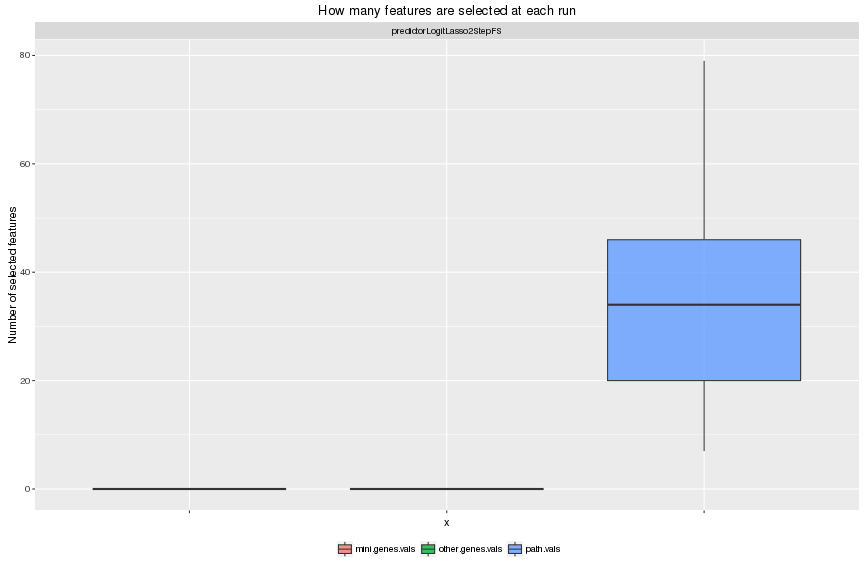
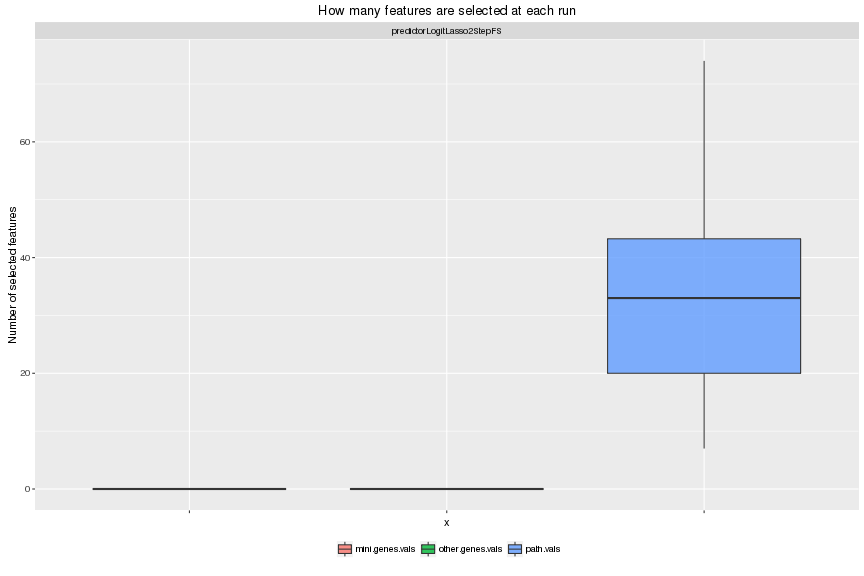
[results] fsResults +

Changed region(s): [[0.6875, 0.625, 0.9375, 0.6875], [0.6875, 0.5, 0.9375, 0.5312], [0.7188, 0.4062, 0.9375, 0.4375]]

diff --git a/results/160310/7_fsResults.md b/results/160310/7_fsResults.md
@@ -209,7 +209,7 @@ head(scores)
 ## 3 0.6000000   tpr rep1
 ## 4 1.0000000   ppv rep1
 ## 5 0.7500000  fval rep1
-## 6 0.9411392 auroc rep1
+## 6 0.9417722 auroc rep1
 ```
 
 
@@ -237,7 +237,7 @@ for (yname in ylist) {
 ![plot of chunk perfLogitLasso](7_fsResults_figure/perfLogitLasso-1.png)
 
 ```
-## Warning: Removed 1033 rows containing non-finite values (stat_boxplot).
+## Warning: Removed 1037 rows containing non-finite values (stat_boxplot).
 ```
 
 ![plot of chunk perfLogitLasso](7_fsResults_figure/perfLogitLasso-2.png)
@@ -364,7 +364,7 @@ for (yname in ylist) {
 ## (NOTE THAT GENES PROVIDE ORTHOGONAL INFO TO PATHWAYS)
 ## 
 ## predictorLogitLasso2StepFS 
-##                       33.7 
+##                       33.3 
 ## 
 ## Total number of features within each type
 ## (NOTE THAT GENES PROVIDE ORTHOGONAL INFO TO PATHWAYS)
@@ -390,13 +390,13 @@ for (yname in ylist) {
 ## 
 ## $predictorLogitLasso2StepFS$path.vals
 ## 
-##     X_hsa04520__22___4    X_hsa04919__33___39   X_hsa05200__39___198 
-##                     50                     50                     44 
-##   X_hsa05200__27___200 X_hsa04012__11_12___65    X_hsa04520__22___18 
-##                     40                     38                     38 
-##    X_hsa05200__27___48    X_hsa05200__27___49    X_hsa04010__26___12 
+##     X_hsa04520__22___4    X_hsa04919__33___39   X_hsa05200__27___200 
+##                     50                     50                     41 
+##   X_hsa05200__39___198 X_hsa04012__11_12___65    X_hsa04520__22___18 
+##                     39                     38                     37 
+##    X_hsa05200__27___48    X_hsa05200__27___49    X_hsa05231__55___17 
 ##                     37                     33                     32 
-##    X_hsa05231__55___17 
+##     X_hsa03320__1___63 
 ##                     31
 ```
 
@@ -412,7 +412,7 @@ for (yname in ylist) {
 ## (NOTE THAT GENES PROVIDE ORTHOGONAL INFO TO PATHWAYS)
 ## 
 ## predictorLogitLasso2StepFS 
-##                      59.28 
+##                      59.82 
 ## 
 ## Total number of features within each type
 ## (NOTE THAT GENES PROVIDE ORTHOGONAL INFO TO PATHWAYS)
@@ -439,11 +439,11 @@ for (yname in ylist) {
 ## $predictorLogitLasso2StepFS$path.vals
 ## 
 ##    X_hsa04068__80___46   X_hsa05200__13___196 X_hsa04261__57___14_16 
-##                     50                     39                     36 
-## X_hsa04622__7___5_8_37    X_hsa04520__20___17   X_hsa04020__9_53___7 
-##                     36                     34                     32 
-## X_hsa04261__58___14_16 X_hsa04261__59___14_16    X_hsa04350__53___28 
-##                     32                     31                     30 
+##                     50                     38                     37 
+## X_hsa04622__7___5_8_37    X_hsa04520__20___17 X_hsa04261__59___14_16 
+##                     37                     35                     33 
+##   X_hsa04020__9_53___7 X_hsa04261__58___14_16    X_hsa04350__53___28 
+##                     32                     32                     30 
 ## X_hsa04620__49_55___39 
 ##                     30
 ```
